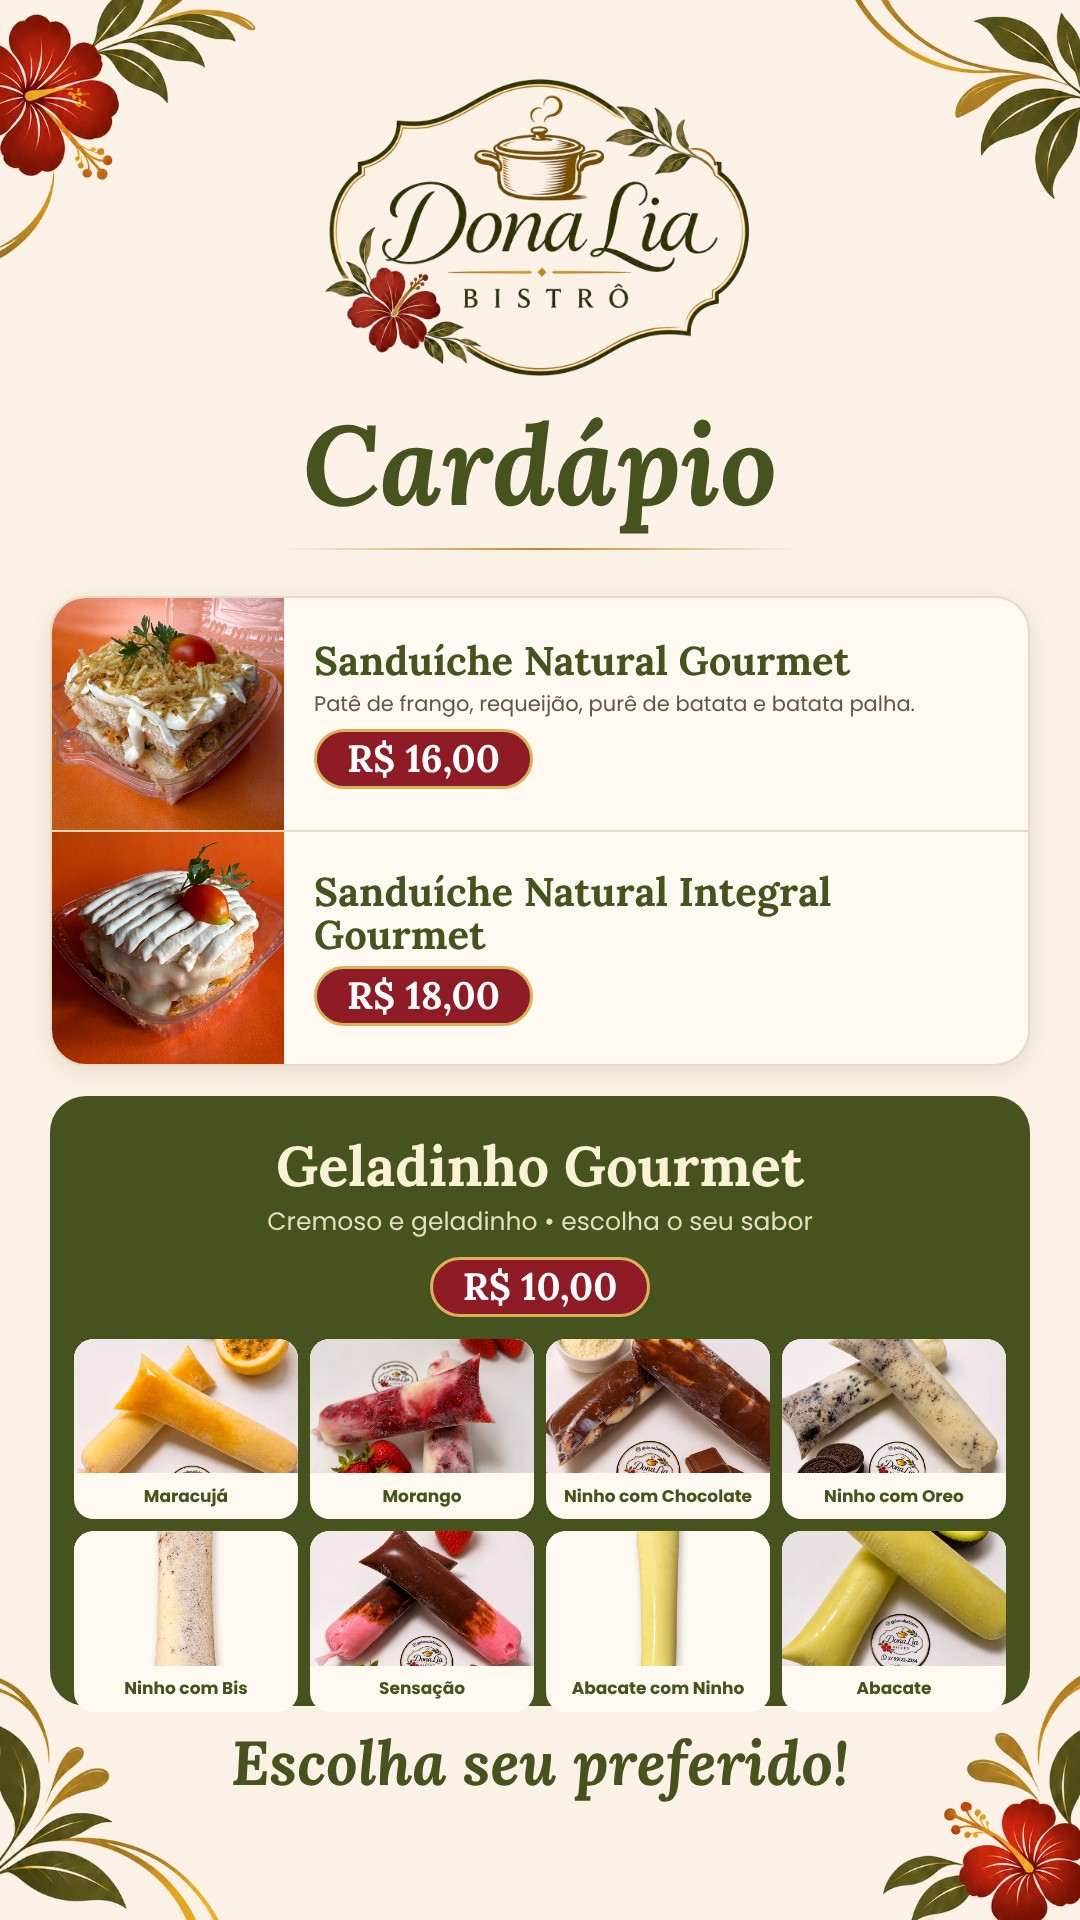
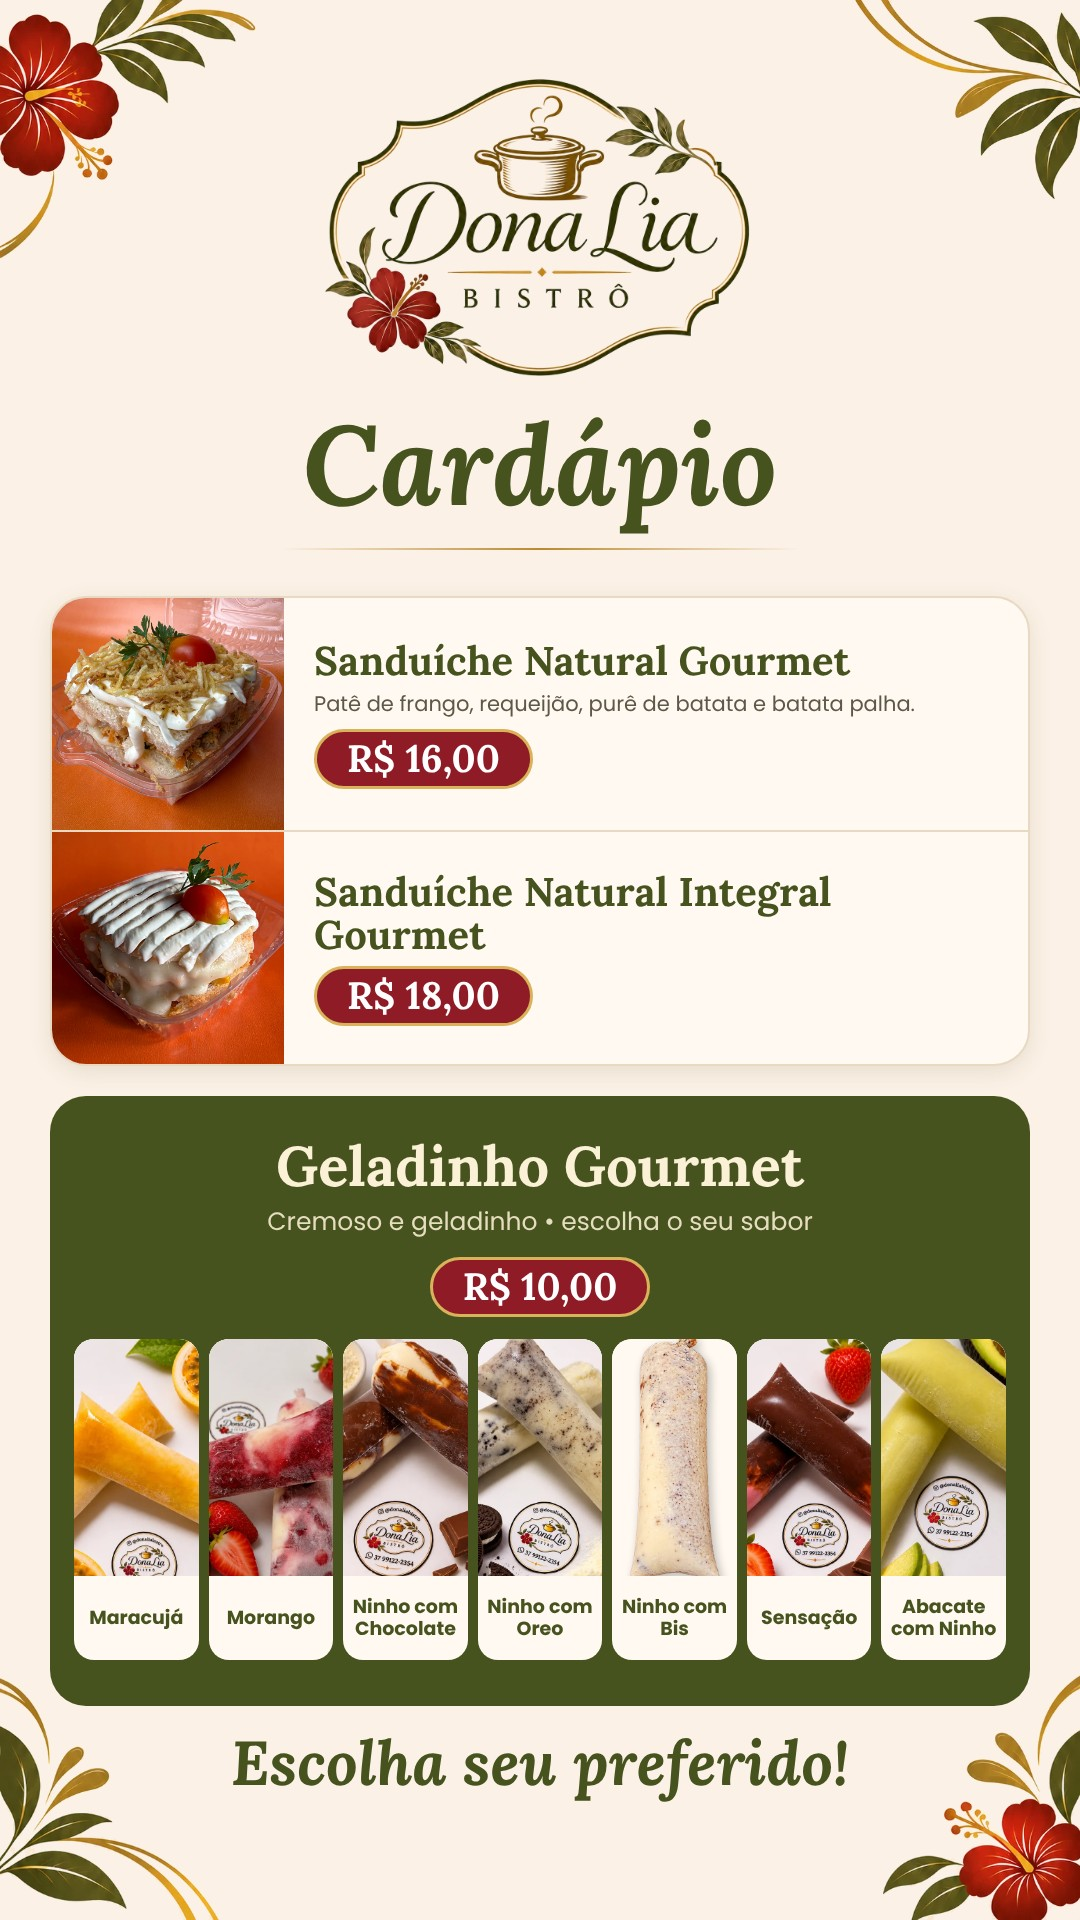
Cardápio com 7 sabores e foto nova do abacate
Claude-Session: https://claude.ai/code/session_01L7RU4Qf6ipUkkZnfFHStMk

Changed region(s): [[0.0611, 0.6875, 0.9472, 0.9062]]

diff --git a/cardapio/index.html b/cardapio/index.html
@@ -12,6 +12,6 @@ img{display:block;width:100%;max-width:640px;height:auto}
 .b{position:sticky;bottom:0;width:100%;max-width:640px;padding:12px 16px calc(12px + env(safe-area-inset-bottom));background:linear-gradient(transparent,#FCF1E6 40%);text-align:center}
 .b a{display:block;background:#47531F;color:#fff;text-decoration:none;border-radius:99px;padding:14px 22px}
 </style></head><body>
-<img src="../images/cardapio.jpg" alt="Cardápio DonaLia Bistrô: sanduíche natural gourmet R$ 16,00; sanduíche natural integral gourmet R$ 18,00; geladinho gourmet R$ 10,00 nos sabores Maracujá, Morango, Ninho com Chocolate, Ninho com Oreo, Ninho com Bis, Sensação e Abacate com Ninho e Abacate." width="1080" height="1920">
+<img src="../images/cardapio.jpg" alt="Cardápio DonaLia Bistrô: sanduíche natural gourmet R$ 16,00; sanduíche natural integral gourmet R$ 18,00; geladinho gourmet R$ 10,00 nos sabores Maracujá, Morango, Ninho com Chocolate, Ninho com Oreo, Ninho com Bis, Sensação e Abacate com Ninho." width="1080" height="1920">
 <div class="b"><a href="../#pedido">Fazer meu pedido</a></div>
 </body></html>
